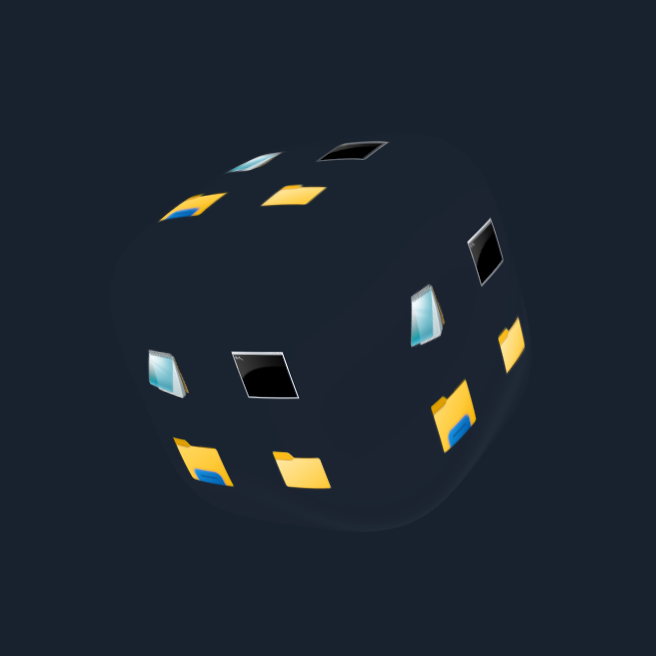
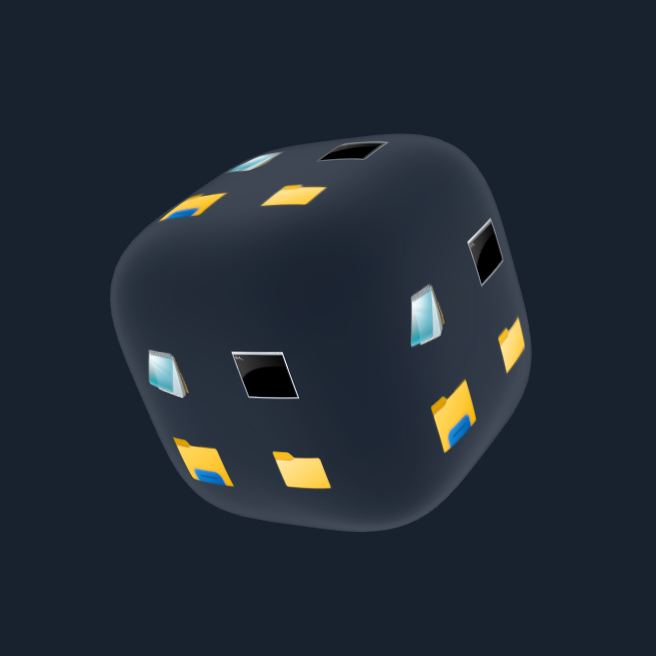
docs: record Windows contour fix and dark-light runtime checks

Changed region(s): [[0.1524, 0.1829, 0.8232, 0.8232]]

diff --git a/docs/verification/2026-10-27-windows-contour.md b/docs/verification/2026-10-27-windows-contour.md
@@ -1,0 +1,17 @@
+# Windows glass contour regression — 0.13.1
+
+The Windows shell used `0.25 * 0.035` opacity (0.875%) with a physical material lit only by ambient light. It had no environment reflections to reveal the silhouette; the optical textures attenuated their own transparency further. The previous smoke checks verified geometry and controls but did not require visible body contrast.
+
+The fix replaces that shell material with a view-dependent reflection shader on the existing continuous quartic mesh. Soft pale highlights read against dark desktops; a gradual dark refraction reads against pale desktops. The center remains transparent. Theme colors affect the reflections, while the minimum contour does not depend on the glow slider or an environment map. No twelve-edge frame or opaque face plates were added.
+
+## Executed evidence
+
+- RED: [run 40461764553](https://github.com/gd0306/t-cube/actions/runs/40461764553), old material: both Windows jobs failed the new resting-size visibility test. Neither background had pixels exceeding the required contrast; center alpha was 0.0118.
+- An intermediate reflection passed dark-background visibility but failed the pale-background test. The refraction transition was widened based on that result.
+- GREEN: [run 40462294246](https://github.com/gd0306/t-cube/actions/runs/40462294246), commit `009ef6c`: both Windows runners passed all 58 behavior tests, type checks, build, source installation and runtime smoke. Shader compilation and real framebuffer pixels are checked by the installed app.
+- The test hides icon decals while reading the framebuffer so icons cannot falsely satisfy body visibility. It composites the result mathematically over dark/light backgrounds, requires at least 0.4% of viewport pixels to differ by 18/255 or more, and requires center alpha below 0.12. Observed visible coverage: dark 12.14%, light 0.729%; center alpha 0.0235 (97.65% transparent).
+- Inspected native Windows captures at resting 164 DIP and hovered 656 DIP on both backgrounds. Updated README captures come from this run. User data is isolated for all tests.
+
+These are Windows Server CI images; physical Windows 10/11 display calibration and wallpaper still vary. The regression now checks the previously missed contrast requirement directly. Existing interaction and configuration tests remain green.
+
+Update by quitting the installed app, pulling `master`, and rerunning `windows/scripts/install.ps1`; existing configuration is preserved.

diff --git a/windows/README.md b/windows/README.md
@@ -1,8 +1,12 @@
 # T-Cube for Windows
 
-Version **0.13.0** targets Windows 10 22H2 / Windows 11, x64. This client uses Electron and Three.js; the repository's macOS client remains native Swift. No installer download is required.
+Version **0.13.1** targets Windows 10 22H2 / Windows 11, x64. This client uses Electron and Three.js; the repository's macOS client remains native Swift. No installer download is required.
 
 ## Preview
+
+Resting size on dark and light backgrounds:
+
+<p><img src="../docs/images/windows-idle-dark.png" width="164" alt="Visible glass contour at resting size on a dark background"><img src="../docs/images/windows-idle-light.png" width="164" alt="Visible glass contour at resting size on a light background"></p>
 
 <p><img src="../docs/images/windows-hover.png" width="400" alt="Curved icons on a very transparent glass body"><img src="../docs/images/windows-expanded.png" width="180" alt="Four-icon translucent expansion panel"></p>
 
